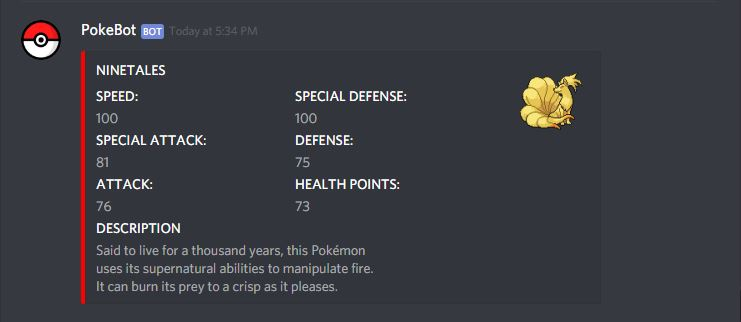
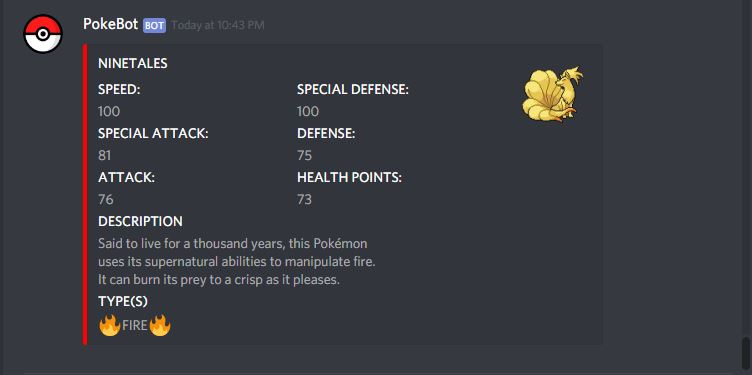
types

diff --git a/pokedexPokemon.js b/pokedexPokemon.js
@@ -1,0 +1,136 @@
+//Importing Pokedex-promise-v2
+let Pokedex = require('pokedex-promise-v2');
+let P = new Pokedex();
+
+//Returning Name, Id, Sprite
+exports.findPokemonNameIdSprite = function(pokemonNameID) {
+    let promise = P.getPokemonByName(pokemonNameID).then(response => { return response });
+    return promise; 
+}
+  
+  //Returning Description and Color
+exports.findPokemonDescriptionColor = function(pokemonNameID) {
+    let promise = P.getPokemonSpeciesByName(pokemonNameID).then(response => { return response });
+    return promise;
+}
+  
+  //Parsing all the data
+  exports.parsePokemonName = function(json) {
+    let name = json[0].name;
+    return name;
+  }
+  
+  exports.parsePokemonId = function(json) {
+    let id = json[0].id;
+    return id;
+  }
+  
+  exports.parsePokemonSprites = function(json) {
+    let spriteURL = json[0].sprites.front_default;
+    return spriteURL;
+  }
+
+  exports.parsePokemonType = function(json) {
+      let types = json[0].types
+      let typesArray = [];
+      for (let i = 0; i < types.length; i++) {
+          typesArray.push(types[i].type.name);
+      }
+
+      for (let j = 0; j < typesArray.length; j++) {
+        switch (typesArray[j]) {
+          case 'bug':
+              typesArray[j] = '🐛BUG🐛'
+              break;
+          case 'dark':
+              typesArray[j] = '☁DARK☁'
+              break;
+          case 'dragon':
+              typesArray[j] = '🐉DRAGON🐉'
+              break;          
+          case 'electric':
+              typesArray[j] = '⚡ELECTRIC⚡'
+              break;
+          case 'fairy':
+              typesArray[j] = '🧚FAIRY🧚'
+              break;
+          case 'fighting':
+              typesArray[j] = '🥊FIGHTING🥊'
+              break;
+          case 'fire':
+              typesArray[j] = '🔥FIRE🔥'
+              break;
+          case 'flying':
+              typesArray[j] = '🐦FLYING🐦'
+              break;
+          case 'ghost':
+              typesArray[j] = '👻GHOST👻'
+              break;
+              case 'grass':
+              typesArray[j] = '🌿GRASS🌿'
+              break;
+          case 'ground':
+              typesArray[j] = '🐿GROUND🐿'
+              break;
+          case 'ice':
+              typesArray[j] = '🍨ICE🍨'
+              break;
+          case 'normal':
+              typesArray[j] = '😐NORMAL😐'
+              break;
+          case 'poison':
+              typesArray[j] = '🤢POISON🤢'
+              break;
+          case 'psychic':
+              typesArray[j] = '😕PSYCHIC😕'
+              break;
+          case 'rock':
+              typesArray[j] = '🗿ROCK🗿'
+              break;
+          case 'steel':
+              typesArray[j] = '🔩STEEL🔩'
+              break;
+          case 'water':
+              typesArray[j] = '🌊WATER🌊'
+              break;    
+        }
+      }
+      return typesArray;
+  }
+  
+  exports.parsePokemonColor = function(json) {
+    color = json[1].color.name;
+    return color;
+  }
+  
+  exports.parsePokemonDescription = function(json) {
+    let descriptions = json[1].flavor_text_entries
+    for (let i = 0; i < descriptions.length; i++) {
+      let language = descriptions[i].language.name;
+      if(language == 'en') {
+        let description = descriptions[i].flavor_text;
+        description.replace('\n', ' ');
+        return description;
+      }
+    }
+  }
+  
+  exports.parsePokemonStats = function(json) {
+    let statMap = new Map();
+    
+    let speed = json[0].stats[0].base_stat;
+    let specialDefense = json[0].stats[1].base_stat;
+    let specialAttack = json[0].stats[2].base_stat;
+    let defense = json[0].stats[3].base_stat;
+    let attack = json[0].stats[4].base_stat;
+    let hP = json[0].stats[5].base_stat;
+  
+    statMap.set('SPD', speed);
+    statMap.set('SD', specialDefense);
+    statMap.set('SA', specialAttack);
+    statMap.set('D', defense);
+    statMap.set('A', attack);
+    statMap.set('HP', hP);
+  
+    return statMap;
+  }

diff --git a/pokedexBot.js b/pokedexBot.js
@@ -2,8 +2,8 @@
 const { Client, RichEmbed } = require('discord.js');
 const bot = new Client();
 
-var Pokedex = require('pokedex-promise-v2');
-var P = new Pokedex();
+//Importing 
+let pokemon = require('./pokedexPokemon');
 
 //Bot is ready
 bot.on('ready', () => {
@@ -13,16 +13,16 @@ bot.on('ready', () => {
 bot.on('message', message => {
   if (message.content.startsWith('!pokemon ')) {
     const pokemonName = message.content.replace('!pokemon ', '');
-    
     //Creating the pokemon Info Embed
-    let pokemonInfo = Promise.all([findPokemonNameIdSprite(pokemonName), findPokemonDescriptionColor(pokemonName)])
+    let pokemonInfo = Promise.all([pokemon.findPokemonNameIdSprite(pokemonName), pokemon.findPokemonDescriptionColor(pokemonName)])
     pokemonInfo.then(function(response) {
-      let name = parsePokemonName(response)
-      let id = parsePokemonId(response)
-      let spriteURL = parsePokemonSprites(response)
-      let color = parsePokemonColor(response);
-      let description = parsePokemonDescription(response);
-      let statMap = parsePokemonStats(response);
+      let name = pokemon.parsePokemonName(response)
+      let id = pokemon.parsePokemonId(response)
+      let spriteURL = pokemon.parsePokemonSprites(response)
+      let color = pokemon.parsePokemonColor(response);
+      let description = pokemon.parsePokemonDescription(response);
+      let statMap = pokemon.parsePokemonStats(response);
+      let typesArray = pokemon.parsePokemonType(response);
 
       const embed = new RichEmbed()
       .setTitle(name.toUpperCase())
@@ -34,6 +34,7 @@ bot.on('message', message => {
       .addField('ATTACK: ', statMap.get('A'), true)
       .addField('HEALTH POINTS: ', statMap.get('HP') + '\n', true)
       .addField('DESCRIPTION', description)
+      .addField('TYPE(S)', typesArray.toString())
       .setThumbnail(spriteURL);
     message.channel.send(embed);
    })
@@ -43,68 +44,4 @@ bot.on('message', message => {
 //Bot login in
 bot.login('SECRET_CLIENT_ID');
 
-//Returning Name, Id, Sprite
-function findPokemonNameIdSprite(pokemonNameID) {
-  let promise = P.getPokemonByName(pokemonNameID).then(response => { return response });
-  return promise; 
-}
-
-//Returning Description and Color
-function findPokemonDescriptionColor(pokemonNameID) {
-  let promise = P.getPokemonSpeciesByName(pokemonNameID).then(response => { return response });
-  return promise;
-}
-
-//Parsing all the data
-function parsePokemonName(json) {
-  let name = json[0].name;
-  return name;
-}
-
-function parsePokemonId(json) {
-  let id = json[0].id;
-  return id;
-}
-
-function parsePokemonSprites(json) {
-  let spriteURL = json[0].sprites.front_default;
-  return spriteURL;
-}
-
-function parsePokemonColor(json) {
-  color = json[1].color.name;
-  return color;
-}
-
-function parsePokemonDescription(json) {
-  let descriptions = json[1].flavor_text_entries
-  for (let i = 0; i < descriptions.length; i++) {
-    let language = descriptions[i].language.name;
-    if(language == 'en') {
-      let description = descriptions[i].flavor_text;
-      description.replace('\n', ' ');
-      return description;
-    }
-  }
-}
-
-function parsePokemonStats(json) {
-  let statMap = new Map();
-  
-  let speed = json[0].stats[0].base_stat;
-  let specialDefense = json[0].stats[1].base_stat;
-  let specialAttack = json[0].stats[2].base_stat;
-  let defense = json[0].stats[3].base_stat;
-  let attack = json[0].stats[4].base_stat;
-  let hP = json[0].stats[5].base_stat;
-
-  statMap.set('SPD', speed);
-  statMap.set('SD', specialDefense);
-  statMap.set('SA', specialAttack);
-  statMap.set('D', defense);
-  statMap.set('A', attack);
-  statMap.set('HP', hP);
-
-  return statMap;
-}
 

diff --git a/pokedexItem.js b/pokedexItem.js
@@ -1,0 +1,3 @@
+//Importing Pokedex-promise-v2
+let Pokedex = require('pokedex-promise-v2');
+let P = new Pokedex();
